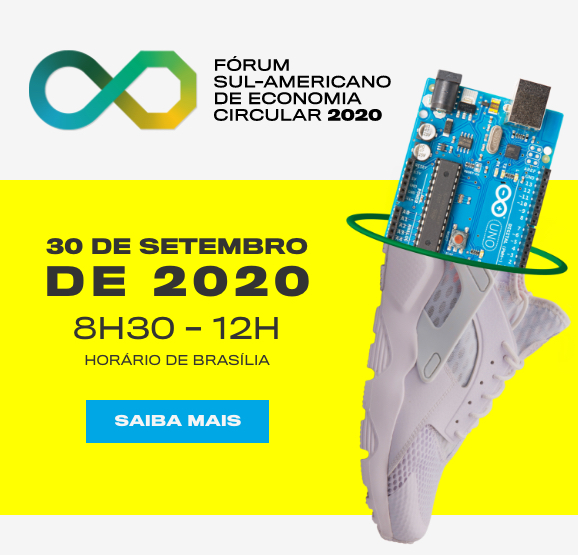
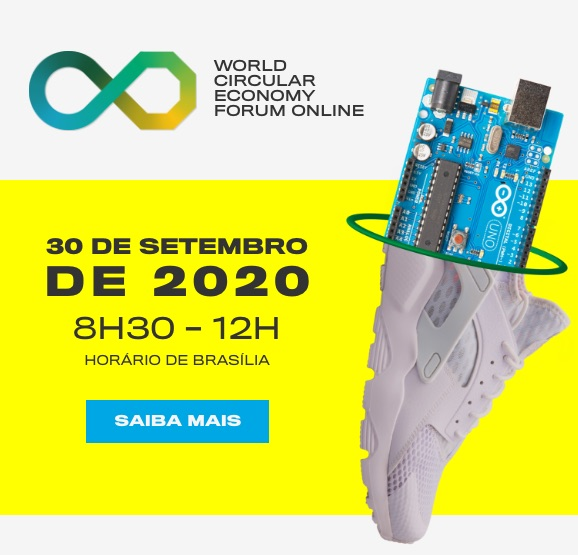
Add files via upload

diff --git a/pt/forum-sul-americano-2020.html b/pt/forum-sul-americano-2020.html
@@ -100,15 +100,13 @@
             <a class="nav-link js-scroll-trigger" href="index.html">PORTAL ECONOMIA CIRCULAR</a>
           </li>
           <li class="nav-item px-2">
-            <a class="nav-link js-scroll-trigger" href="#sobre-forum">SOBRE O FÓRUM</a>
+            <a class="nav-link js-scroll-trigger" href="#sobre-forum">SOBRE O WCEFOnline</a>
           </li>
           <li class="nav-item px-2">
             <a class="nav-link js-scroll-trigger" href="#programacao">PROGRAMAÇÃO</a>
           </li>
           
-          <li class="nav-item  px-2">
-            <a class="nav-link js-scroll-trigger" href="#local">LOCAL DO EVENTO</a>
-          </li>
+         
           <li class="nav-item dropdown ml-3">
             <a class="nav-link dropdown-toggle" href="#" id="navbarDropdown" role="button" data-toggle="dropdown" aria-haspopup="true" aria-expanded="false">
               <i class="fa fa-globe" aria-hidden="true"></i> 
@@ -152,26 +150,29 @@
 
         <div class="col-sm-12 col-xl-10 offset-xl-1">
           <div class="section-header">
-            <h2>FÓRUM SUL-AMERICANO DE 
-              <br><strong>economia circular</strong>
+            <h2>WCEFonline Side Event: Construindo uma  
+              <br><strong>Economia Circular na América Latina</strong>
             </h2>
           </div>
-          <div class="col-lg-10 offset-lg-1">
+          <div class="col-lg-10 offset-lg-1 d-none">
           <h3 class="h4 text-center">Reúso. Redistribuição. Remanufatura. Reciclagem. Prolongamento do ciclo de vida. </h3>
           <p class="lead text-center">Como manter o valor dos produtos e abrir novas possibilidades de obtenção de valor dentro de uma cadeia sustentável de produção?</p>
           </div>
           <div class="colunas">
 
             <p>
-              A Economia Circular é o caminho para o uso mais eficiente dos recursos naturais e aumento da competitividade da indústria. Pensando nisso, FIESP, CIESP e SENAI-SP organizam esse fórum reunindo representantes do setor público e privado de diversos países para apresentar boas práticas em políticas públicas e modelos de negócios.
+              Fomentar a implementação da economia circular globalmente requer atenção às diversidades regionais, permitindo uma transição inclusiva para esse novo modelo econômico. 
+            </p>
+
+            <p>
+              Pensando nisso, FIESP, CIESP e SENAI-SP organizam um debate sobre as oportunidades e os desafios para se constituir uma economia circular na América Latina e a importância de parcerias, com representantes dos setores público e privado.
             </p>
 
             <p>
               Venha debater conosco os principais caminhos para a circularidade em nosso continente!
             </p>
-
             <p>
-              O encontro será realizado em parceria com a SITRA o Fundo Finlandês de Inovação que organiza o World Circular Economy Forum em parceria com a Finlândia, e reunirá conhecimentos e experiências de fóruns mundiais já realizados, além de preparar a audiência para o encontro global no fim do ano no Canadá.
+              O encontro fará parte do segundo dia de atividades do World Circular Economy Forum Online (WCEFonline), evento organizado pelo Fundo Finlandês de Inovação, SITRA, que reúne os principais pensadores e executores da economia circular de todo o mundo.
             </p>
           </div>
           <div class="pt-5 text-center">
@@ -195,7 +196,7 @@
             <h2>  
               <strong>PROGRAMAÇÃO</strong>
             </h2>
-            <p>DATA: 30 DE SETEMBRO - ONLINE</p>
+            <p>DATA: 30 DE SETEMBRO<br>das 8:30 às 12:00  <br>(horário de Brasília)</p>
           </div>
 
           <div class="col-md-10 offset-md-1">
@@ -216,7 +217,7 @@
               <div class="col-md-2"><time>9:00</time></div>
               <div class="col-md-10">
                 <h4>PALESTRA – WCEF 2020</h4>
-                <p>Parceria através da mudança: novo impulso na economia circular emergente</p>
+                <p><strong>Parceria através da mudança: novo impulso na economia circular emergente</strong></p>
                 <p>PACE (Plataforma para Acelerar a Economia Circular)</p>
               </div>
             </div> <!-- FIM LINHA -->
@@ -289,7 +290,7 @@
 
 
       <!-- PATROCINADORES -->
-  <section id="patrocinadores" class="section-with-bg">
+  <!-- <section id="patrocinadores" class="section-with-bg d-none">
     <div class="container">
       <div class="row">
         <div class="col-12 text-right">
@@ -300,12 +301,12 @@
 
       </div>
     </div>
-  </section>
+  </section> -->
 
 
 
   <!-- LOCAL -->
-  <section id="local" class=" ">
+  <section id="local" class="d-none">
     <div class="container">
       <div class="row">
         <div class="col-md-4">

diff --git a/pt/index.html b/pt/index.html
@@ -172,7 +172,7 @@
           </li>
           
           <li class="nav-item  px-2">
-            <a class="nav-link js-scroll-trigger" href="forum-sul-americano-2020.html">FORUM SUL-AMERICANO</a>
+            <a class="nav-link js-scroll-trigger" href="forum-sul-americano-2020.html">WCEFOnline</a>
           </li>
           <li class="nav-item dropdown ml-3">
             <a class="nav-link dropdown-toggle" href="#" id="navbarDropdown" role="button" data-toggle="dropdown" aria-haspopup="true" aria-expanded="false">
